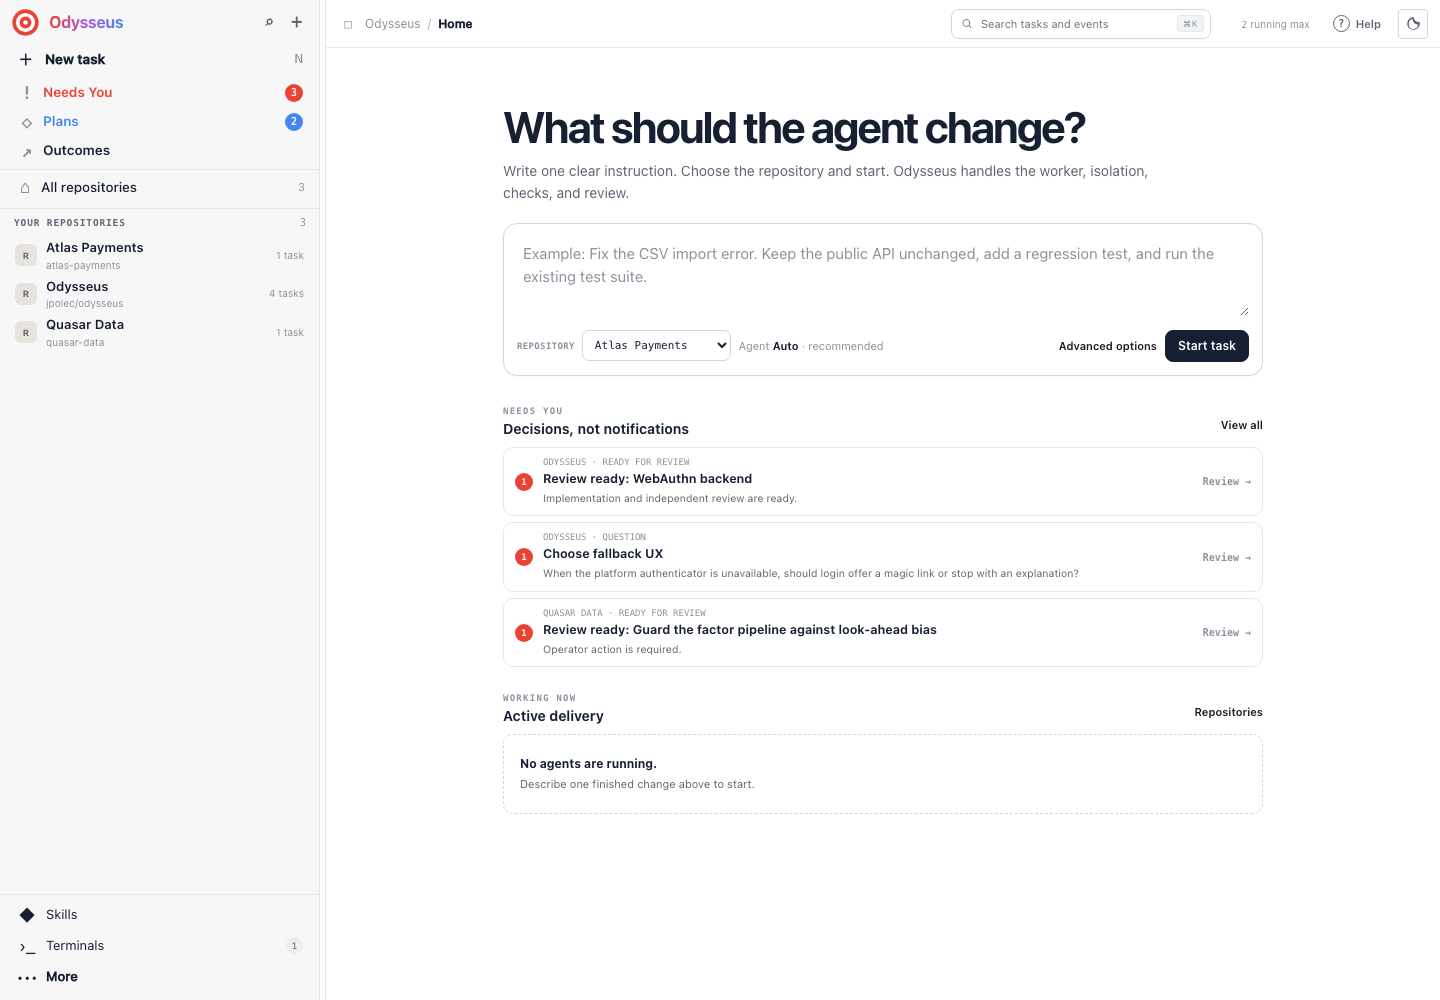
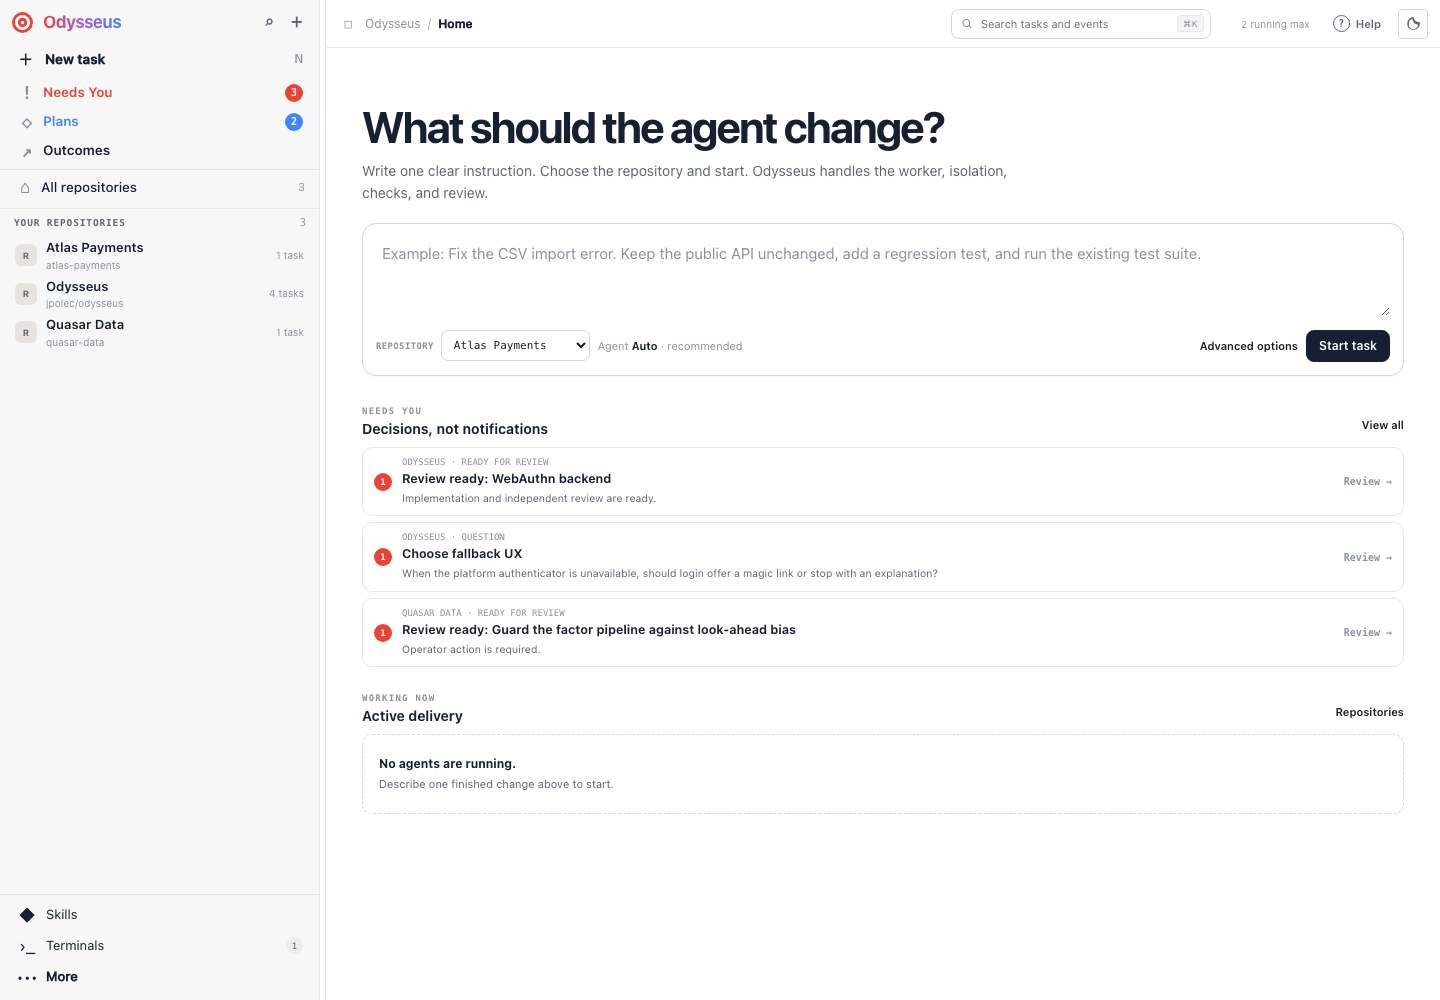
ui: use the full workspace across views

diff --git a/web/app.js b/web/app.js
@@ -3605,6 +3605,7 @@ async function runBrowserRegression() {
   assert($("#helpContent").textContent.includes("Write what should change"), "Home help gives the next action");
   setView("attention");
   assert($("#helpTitle").textContent === "Needs You", "help follows navigation context");
+  if (window.innerWidth > 900) assert(getComputedStyle($("#attentionView")).maxWidth === "none", "Needs You fills the workspace");
   $("#helpClose").click();
   assert(!state.helpOpen && $("#helpPanel").getAttribute("aria-hidden") === "true", "context help closes without changing work");
   setView("portfolio");
@@ -3711,6 +3712,7 @@ async function runBrowserRegression() {
   assert($("#activitySummary").textContent.includes("Total") && $("#activitySummary").textContent.includes("Agent") && $("#activitySummary").textContent.includes("Total cost"), "Activity summarizes total and phase economics");
   assert($("#eventLog time").textContent.includes("T+"), "each Activity entry shows relative task timing");
   assert(state.activityFocus && document.body.classList.contains("activity-focus"), "Activity uses the full workspace width by default");
+  if (window.innerWidth > 900) assert(getComputedStyle($("#runDetail")).maxWidth === "none", "every task tab owns the full workspace");
   assert($("#activityFocusToggle").textContent.includes("Narrow"), "wide Activity exposes a diagonal narrow action");
   $("#activityFocusToggle").click();
   assert(!state.activityFocus && !document.body.classList.contains("activity-focus"), "diagonal control narrows Activity");

diff --git a/web/styles.css b/web/styles.css
@@ -1867,6 +1867,43 @@ body.activity-focus .activity-panel .event { margin-bottom: 9px; padding: 11px 1
 :root[data-theme="dark"] .help-step.tone-amber > span { color: #f2c96e; background: #44320f; }
 :root[data-theme="dark"] .help-step.tone-red > span { color: #ffaaa2; background: #48231f; }
 
+/* Every primary surface owns the workspace to the right of the repository sidebar. */
+@media (min-width: 901px) {
+  .work-view,
+  .collection-view,
+  .run-detail,
+  .portfolio-view,
+  #insightsView {
+    width: 100%;
+    max-width: none;
+    margin-right: 0;
+    margin-left: 0;
+    padding-right: clamp(24px, 2.5vw, 42px);
+    padding-left: clamp(24px, 2.5vw, 42px);
+  }
+
+  .home-hero,
+  .home-compose,
+  .home-queues,
+  .home-portfolio,
+  .technical-details {
+    width: 100%;
+    max-width: none;
+  }
+
+  #task-section-activity.active .activity-panel {
+    max-width: 1180px;
+    margin-right: auto;
+    margin-left: auto;
+  }
+
+  body.activity-focus #task-section-activity.active .activity-panel {
+    max-width: none;
+    margin-right: 0;
+    margin-left: 0;
+  }
+}
+
 @media (prefers-reduced-motion: reduce) {
   .help-panel { transition: none; }
 }

diff --git a/CHANGELOG.md b/CHANGELOG.md
@@ -27,6 +27,10 @@ Git; this file records observable operator and product changes.
 - Replaced the vague graph/Gantt link with a visible Open delivery plan action,
   plain-language Dependencies and Timeline & cost sections, per-task observed
   or explicit estimated/cap costs, and repository cost coverage.
+- Expanded every primary surface—task Overview, Changes, Activity, Evidence,
+  Needs You, Plans, Skills, Outcomes, terminals, repositories, GitHub issues,
+  follow-ups, and Settings—to use the full workspace beside the repository
+  sidebar by default.
 - Reworked the web shell around four primary operator surfaces: Home, Needs
   You, Plans, and Outcomes, while keeping repositories and task history in the
   persistent sidebar.
